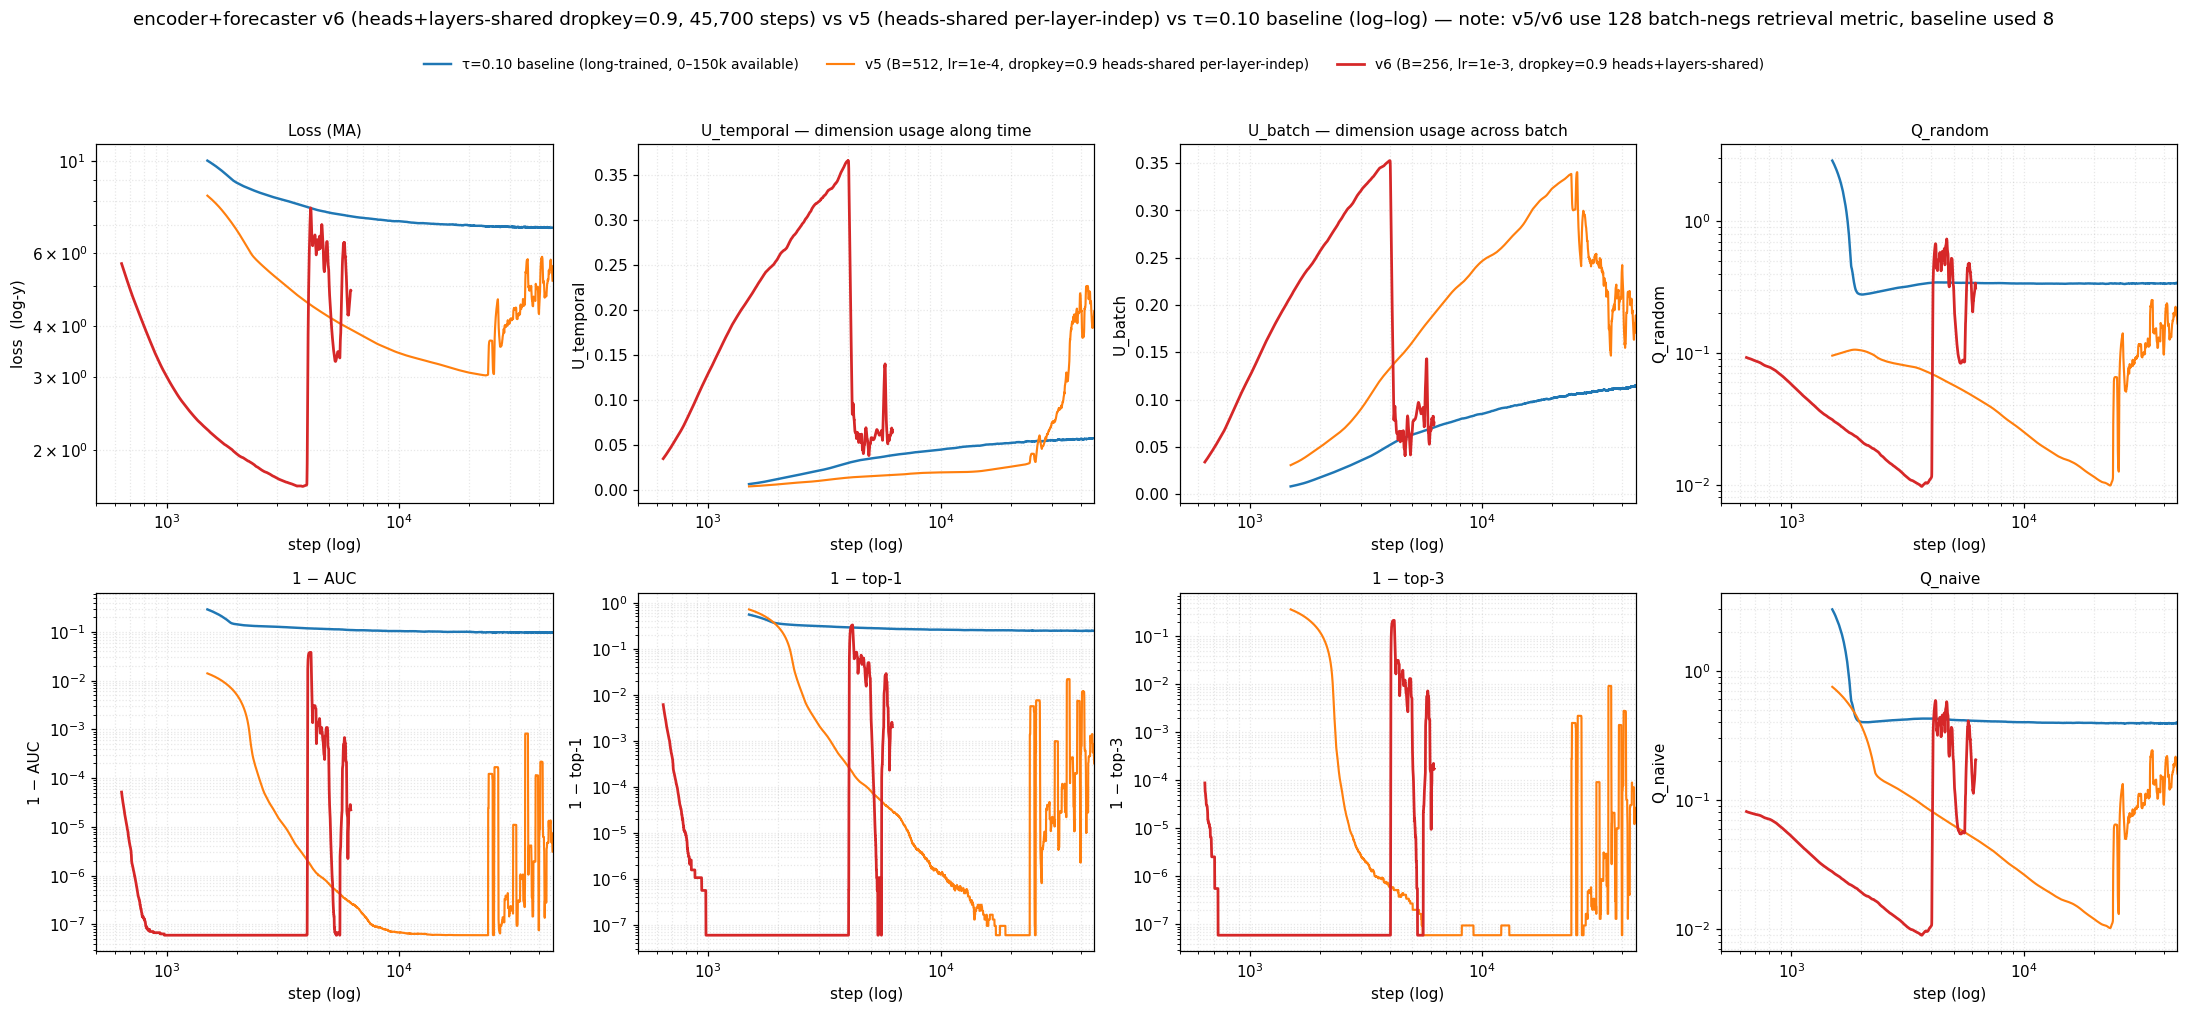
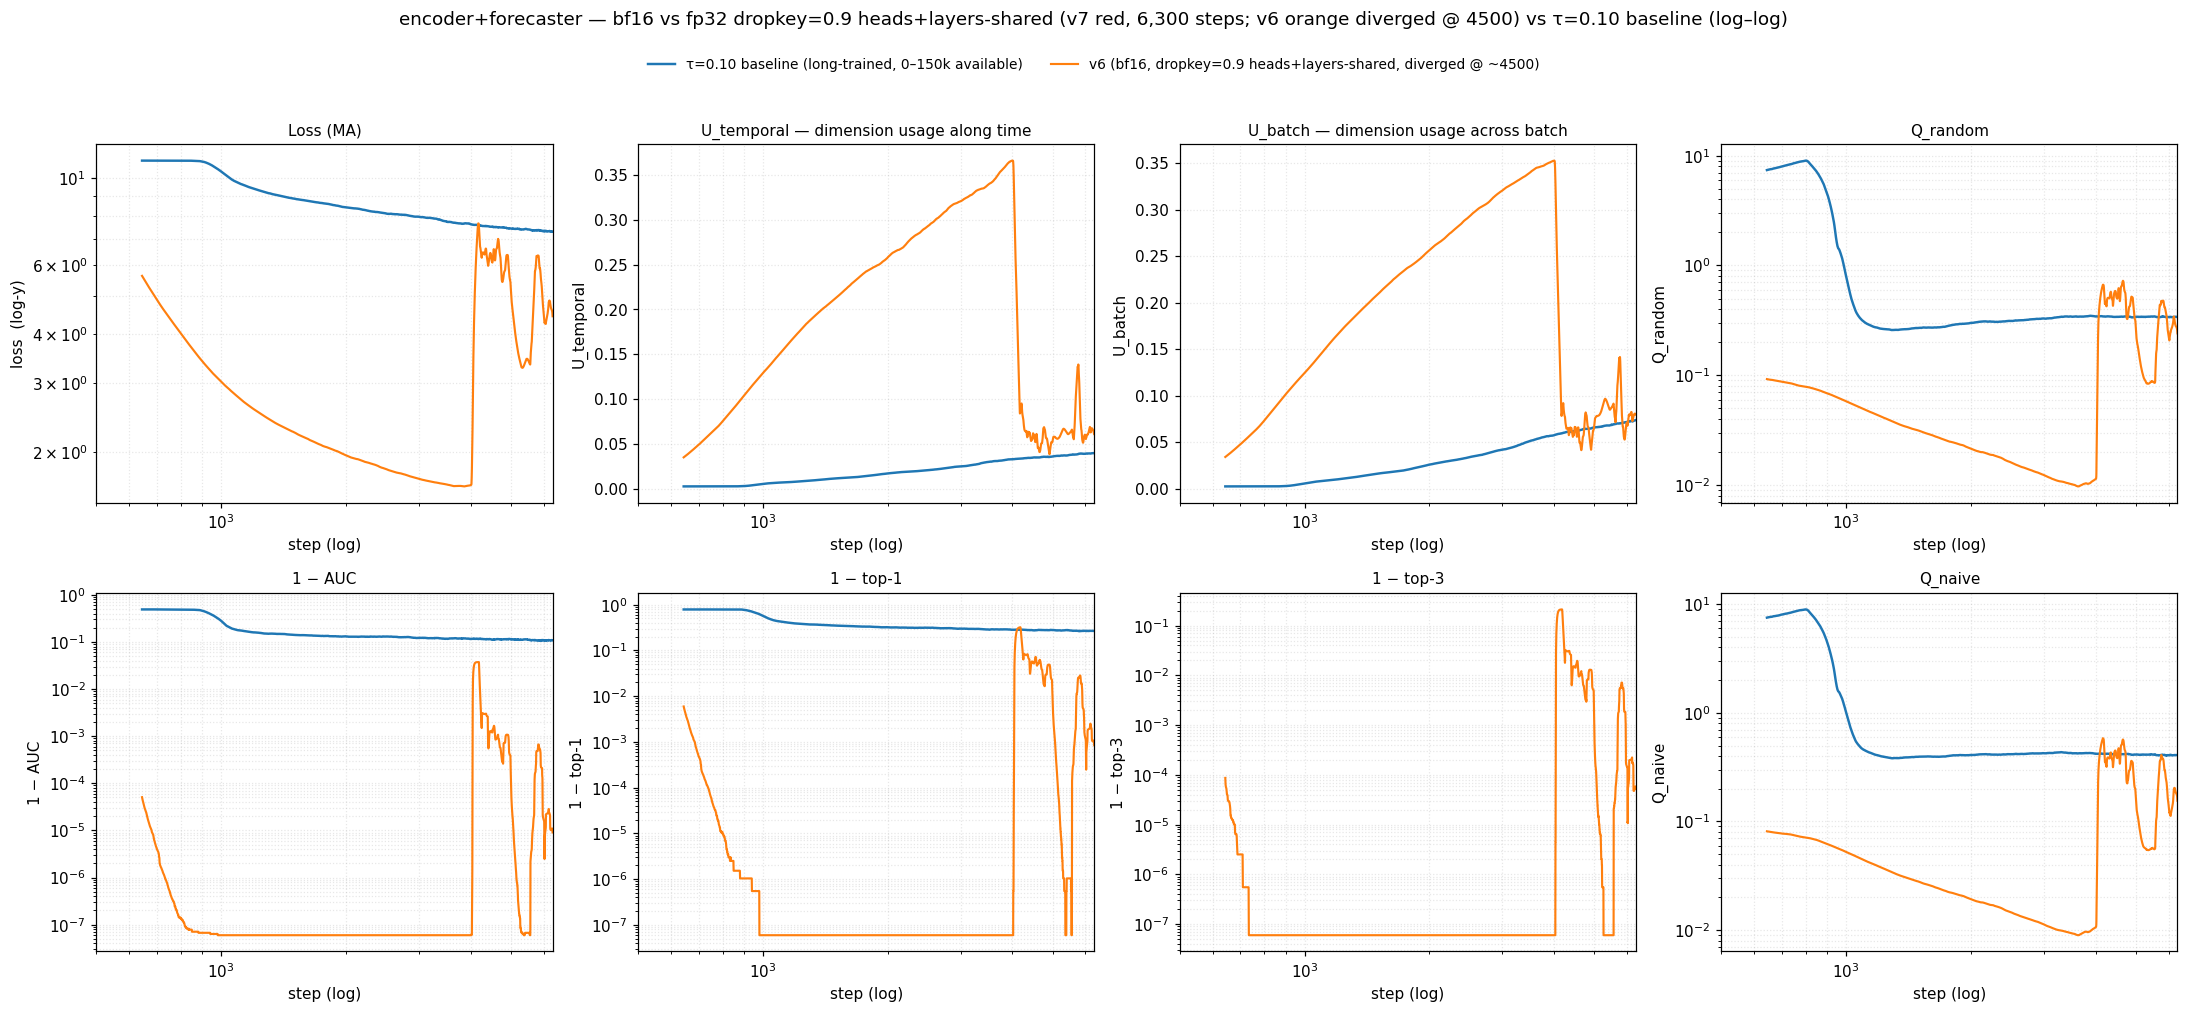
v7: rerun v6 config in fp32 to isolate bf16 numerical instability
v6 (bf16, B=256, lr=1e-3, dropkey=0.9 heads+layers-shared) diverged
at step ~4500 — same wall as v4 with the same LR. Layer-sharing didn't
prevent the kick-out, and the divergence step tracks LR rather than
mask sharing axis. Hypothesis: it's a bf16 numerical instability that
dropkey just exposes.

v7 = identical config to v6, only --amp-dtype changed from bf16 to none.
ETA ~2× v6 (fp32 ≈ 2.5 sps vs bf16's 4.7 sps on the 4090).

scripts/run_v7_fp32.sh: new launcher.
scripts/plot_progress.py: simplified to bf16-vs-fp32 A/B test —
baseline (blue) / v6 bf16 (orange, diverged) / v7 fp32 (red headline).
v5 moved out of the plot (older config, story already in EXECUTION_LOG).
scripts/watchdog.sh: re-targeted to v7 paths.
v6 artifacts archived as enc_fcst_dk09_hsl_b256_50k_bf16_attempt1_*.

diff --git a/experiments/2026-05-11_exp_encoder_forecaster/scripts/plot_progress.py b/experiments/2026-05-11_exp_encoder_forecaster/scripts/plot_progress.py
@@ -1,5 +1,5 @@
 #!/usr/bin/env python3
-"""Progress plot — 3-arm comparison: baseline / v5 / v6.
+"""Progress plot — 3-arm comparison: baseline / v6 bf16 / v7 fp32.
 
 Reads per-step training-batch metrics from the losses CSVs and renders a
 2x4 panel of trajectories smoothed with a moving average:
@@ -64,11 +64,11 @@ MAIN = Path("/home/jupyter/contrastive-forecasting")
 
 # Color palette: saturated, high-contrast.
 #   - τ=0.10 baseline (long-trained, concatenated chunks) → tab:blue
-#   - v5 (B=512, lr=1e-4, dropkey=0.9 heads-shared per-layer-indep) → tab:orange
-#   - v6 / headline (B=256, lr=1e-3, dropkey=0.9 heads+layers-shared) → tab:red
+#   - v6 (bf16, dropkey=0.9 heads+layers-shared, diverged @ ~4500) → tab:orange
+#   - v7 / headline (fp32, dropkey=0.9 heads+layers-shared) → tab:red
 C_BASELINE = "#1f77b4"  # tab:blue
-C_V5 = "#ff7f0e"  # tab:orange
-C_V6 = "#d62728"  # tab:red
+C_V6 = "#ff7f0e"  # tab:orange
+C_V7 = "#d62728"  # tab:red
 
 # τ=0.10 baseline is split across resume chunks. Concatenate in step
 # order; on overlap, the earliest chunk's row wins.
@@ -79,8 +79,9 @@ BASELINE_CHUNKS = [
     MAIN / "sync_tau_sweep_0_10_150k/checkpoints/tau_sweep_0_10_150k_losses.csv",   # 48001–150000
 ]
 
-NEW_ARM_CSV = MAIN / "checkpoints/enc_fcst_dk09_hsl_b256_50k_losses.csv"
-V5_CSV = MAIN / "checkpoints/enc_fcst_dk09_hs_b512_lr1e-4_50k_attempt1_losses.csv"
+V6_CSV = MAIN / "checkpoints/enc_fcst_dk09_hsl_b256_50k_bf16_attempt1_losses.csv"
+V7_CSV = MAIN / "checkpoints/enc_fcst_dk09_hsl_b256_fp32_50k_losses.csv"
+NEW_ARM_CSV = V7_CSV
 
 # (display_label, color, linestyle, lw, csv_path_or_chunks, is_concat)
 ARMS = [
@@ -88,13 +89,13 @@ ARMS = [
      C_BASELINE, "-", 1.6,
      BASELINE_CHUNKS,
      True),
-    ("v5 (B=512, lr=1e-4, dropkey=0.9 heads-shared per-layer-indep)",
-     C_V5, "-", 1.4,
-     V5_CSV,
+    ("v6 (bf16, dropkey=0.9 heads+layers-shared, diverged @ ~4500)",
+     C_V6, "-", 1.4,
+     V6_CSV,
      False),
-    ("v6 (B=256, lr=1e-3, dropkey=0.9 heads+layers-shared)",
-     C_V6, "-", 1.8,
-     NEW_ARM_CSV,
+    ("v7 (fp32, dropkey=0.9 heads+layers-shared)",
+     C_V7, "-", 1.8,
+     V7_CSV,
      False),
 ]
 
@@ -284,9 +285,9 @@ def render_figure(traj, *, logx, logy_metrics, out_path, scale_tag, xmax,
                    bbox_to_anchor=(0.5, 0.985))
 
     fig.suptitle(
-        f"encoder+forecaster v6 (heads+layers-shared dropkey=0.9, {xmax:,} steps) "
-        f"vs v5 (heads-shared per-layer-indep) vs τ=0.10 baseline ({scale_tag})"
-        f" — note: v5/v6 use 128 batch-negs retrieval metric, baseline used 8",
+        f"encoder+forecaster — bf16 vs fp32 dropkey=0.9 heads+layers-shared "
+        f"(v7 red, {xmax:,} steps; v6 orange diverged @ 4500) "
+        f"vs τ=0.10 baseline ({scale_tag})",
         fontsize=12, y=1.02)
     fig.tight_layout(rect=(0, 0, 1, 0.96))
     fig.savefig(out_path, dpi=110, bbox_inches="tight")
@@ -303,13 +304,13 @@ def main() -> None:
         raise SystemExit("baseline chunks all missing or empty")
     new_arm_max = int(new_arm["step"].max())
     baseline_max = int(baseline["step"].max())
-    # Right edge = the most recent step among the non-baseline arms (v5 + v6).
+    # Right edge = the most recent step among the non-baseline arms (v6 + v7).
     # All three arms get clipped to the same window before smoothing so the
     # curves end at the same x. Capped at baseline_max in case anything
     # overshoots.
-    v5 = load_traj(V5_CSV)
-    v5_max = int(v5["step"].max()) if v5 is not None else 0
-    xmax = min(max(new_arm_max, v5_max), baseline_max)
+    v6 = load_traj(V6_CSV)
+    v6_max = int(v6["step"].max()) if v6 is not None else 0
+    xmax = min(max(new_arm_max, v6_max), baseline_max)
 
     # Log-x lower bound: snap to the smaller of the two arms' first
     # smoothed point inside the visible window, so the [1..first_step]
